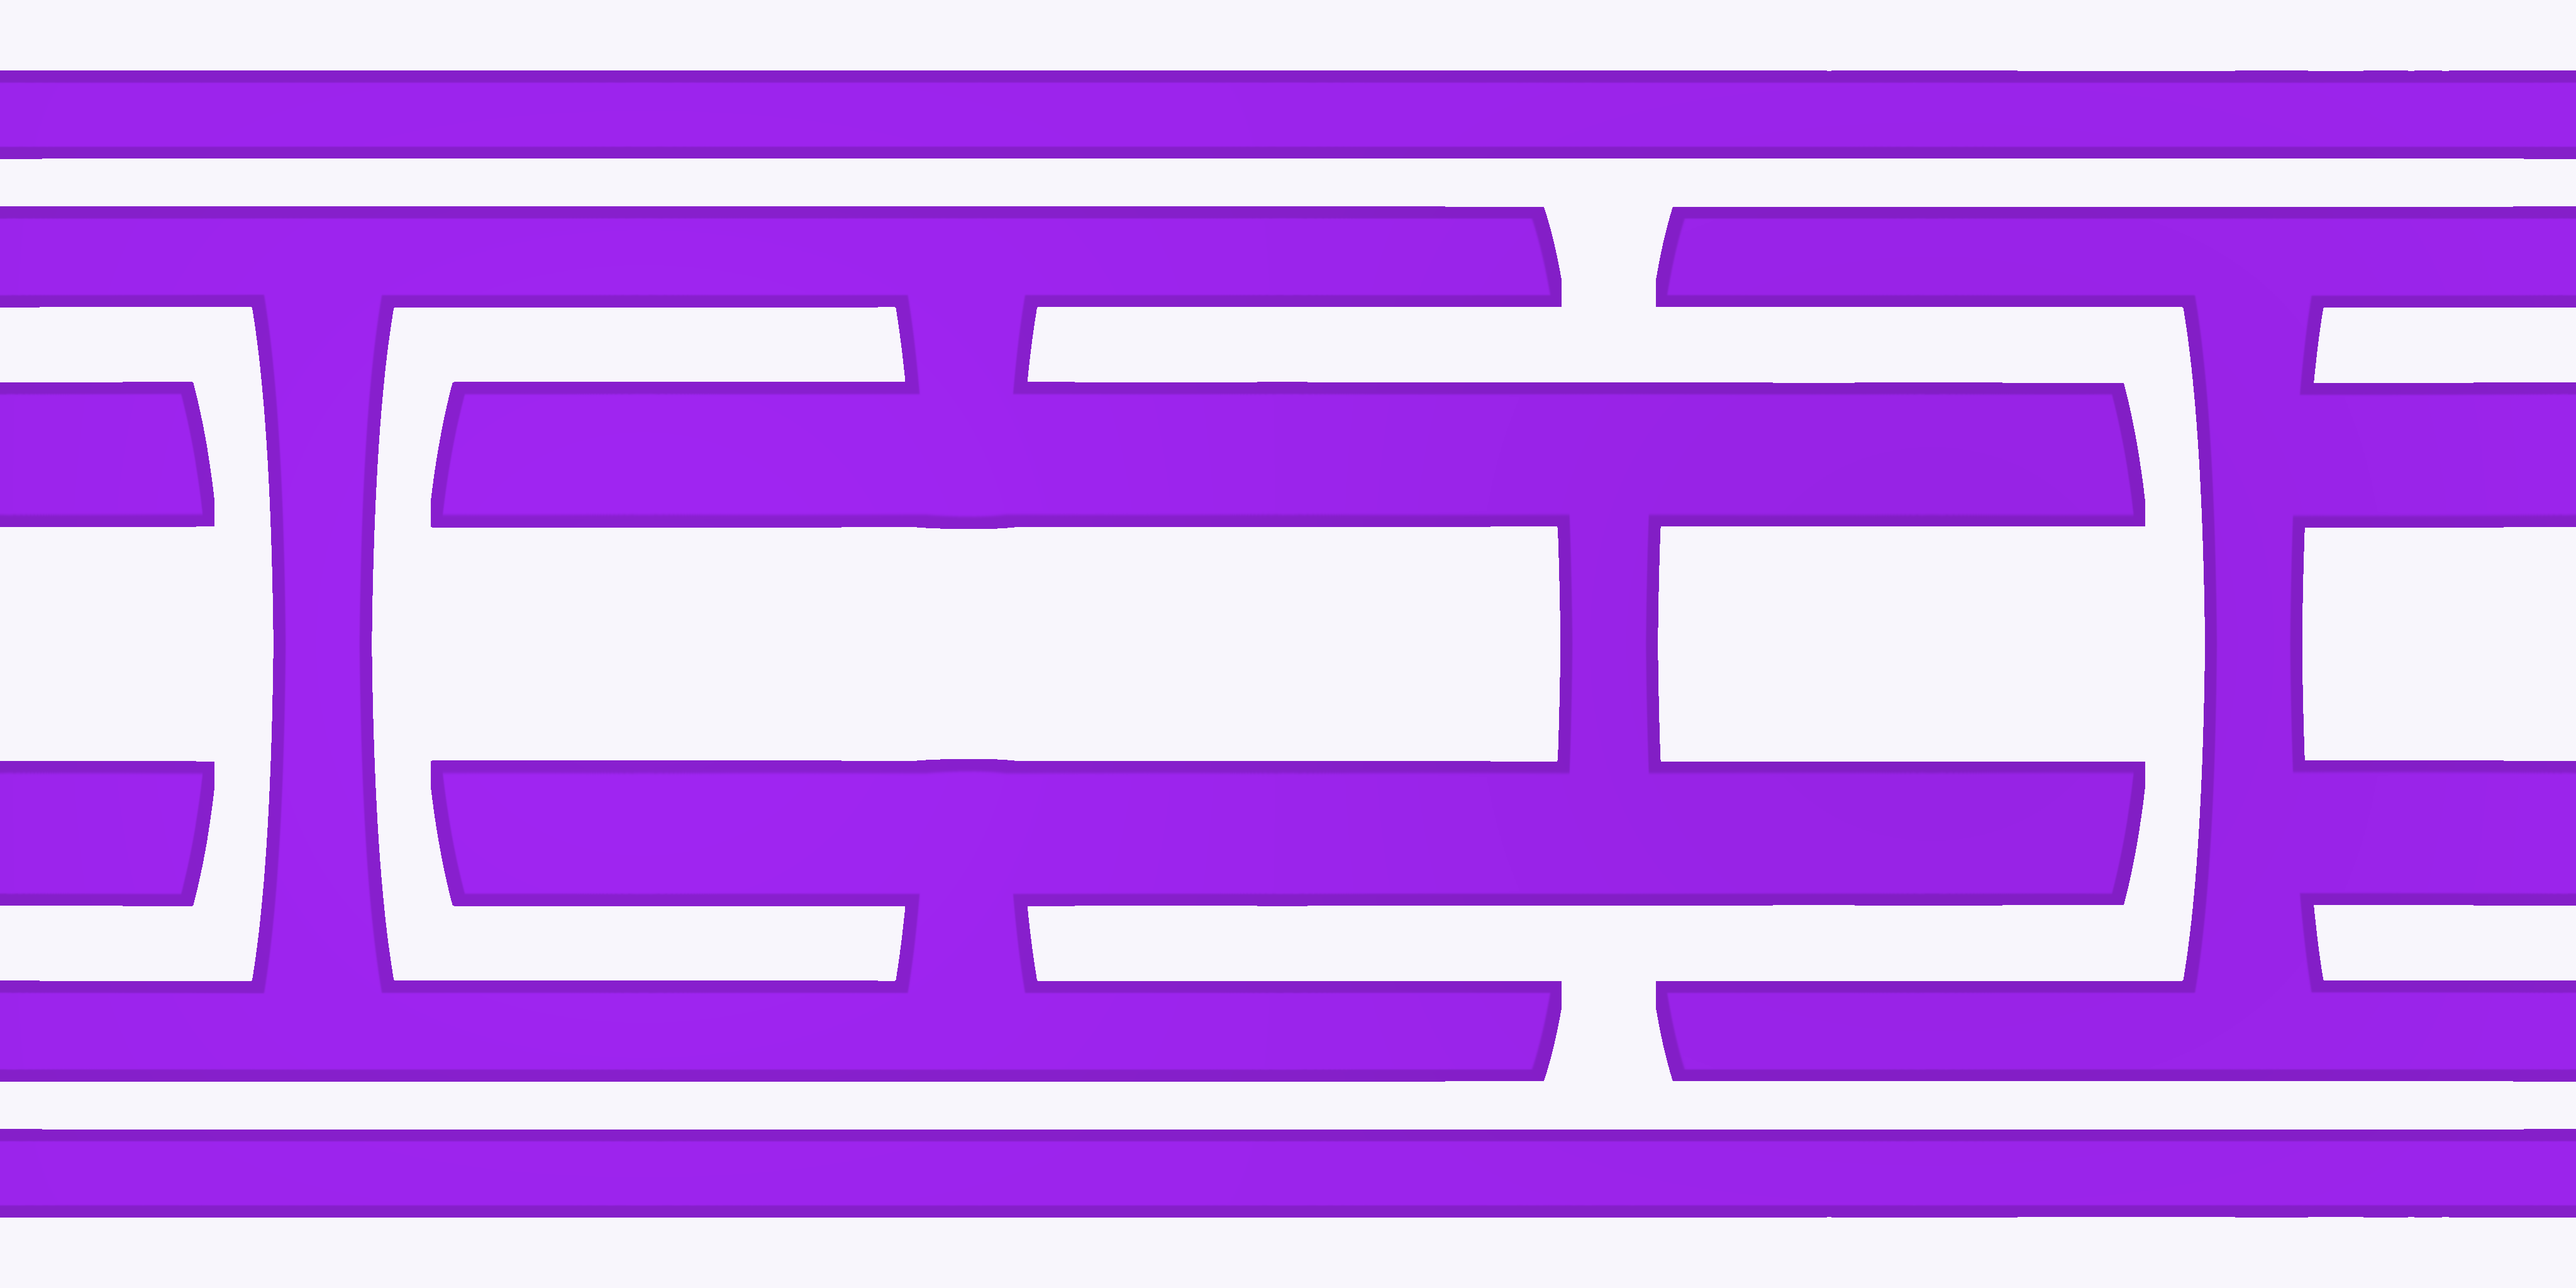
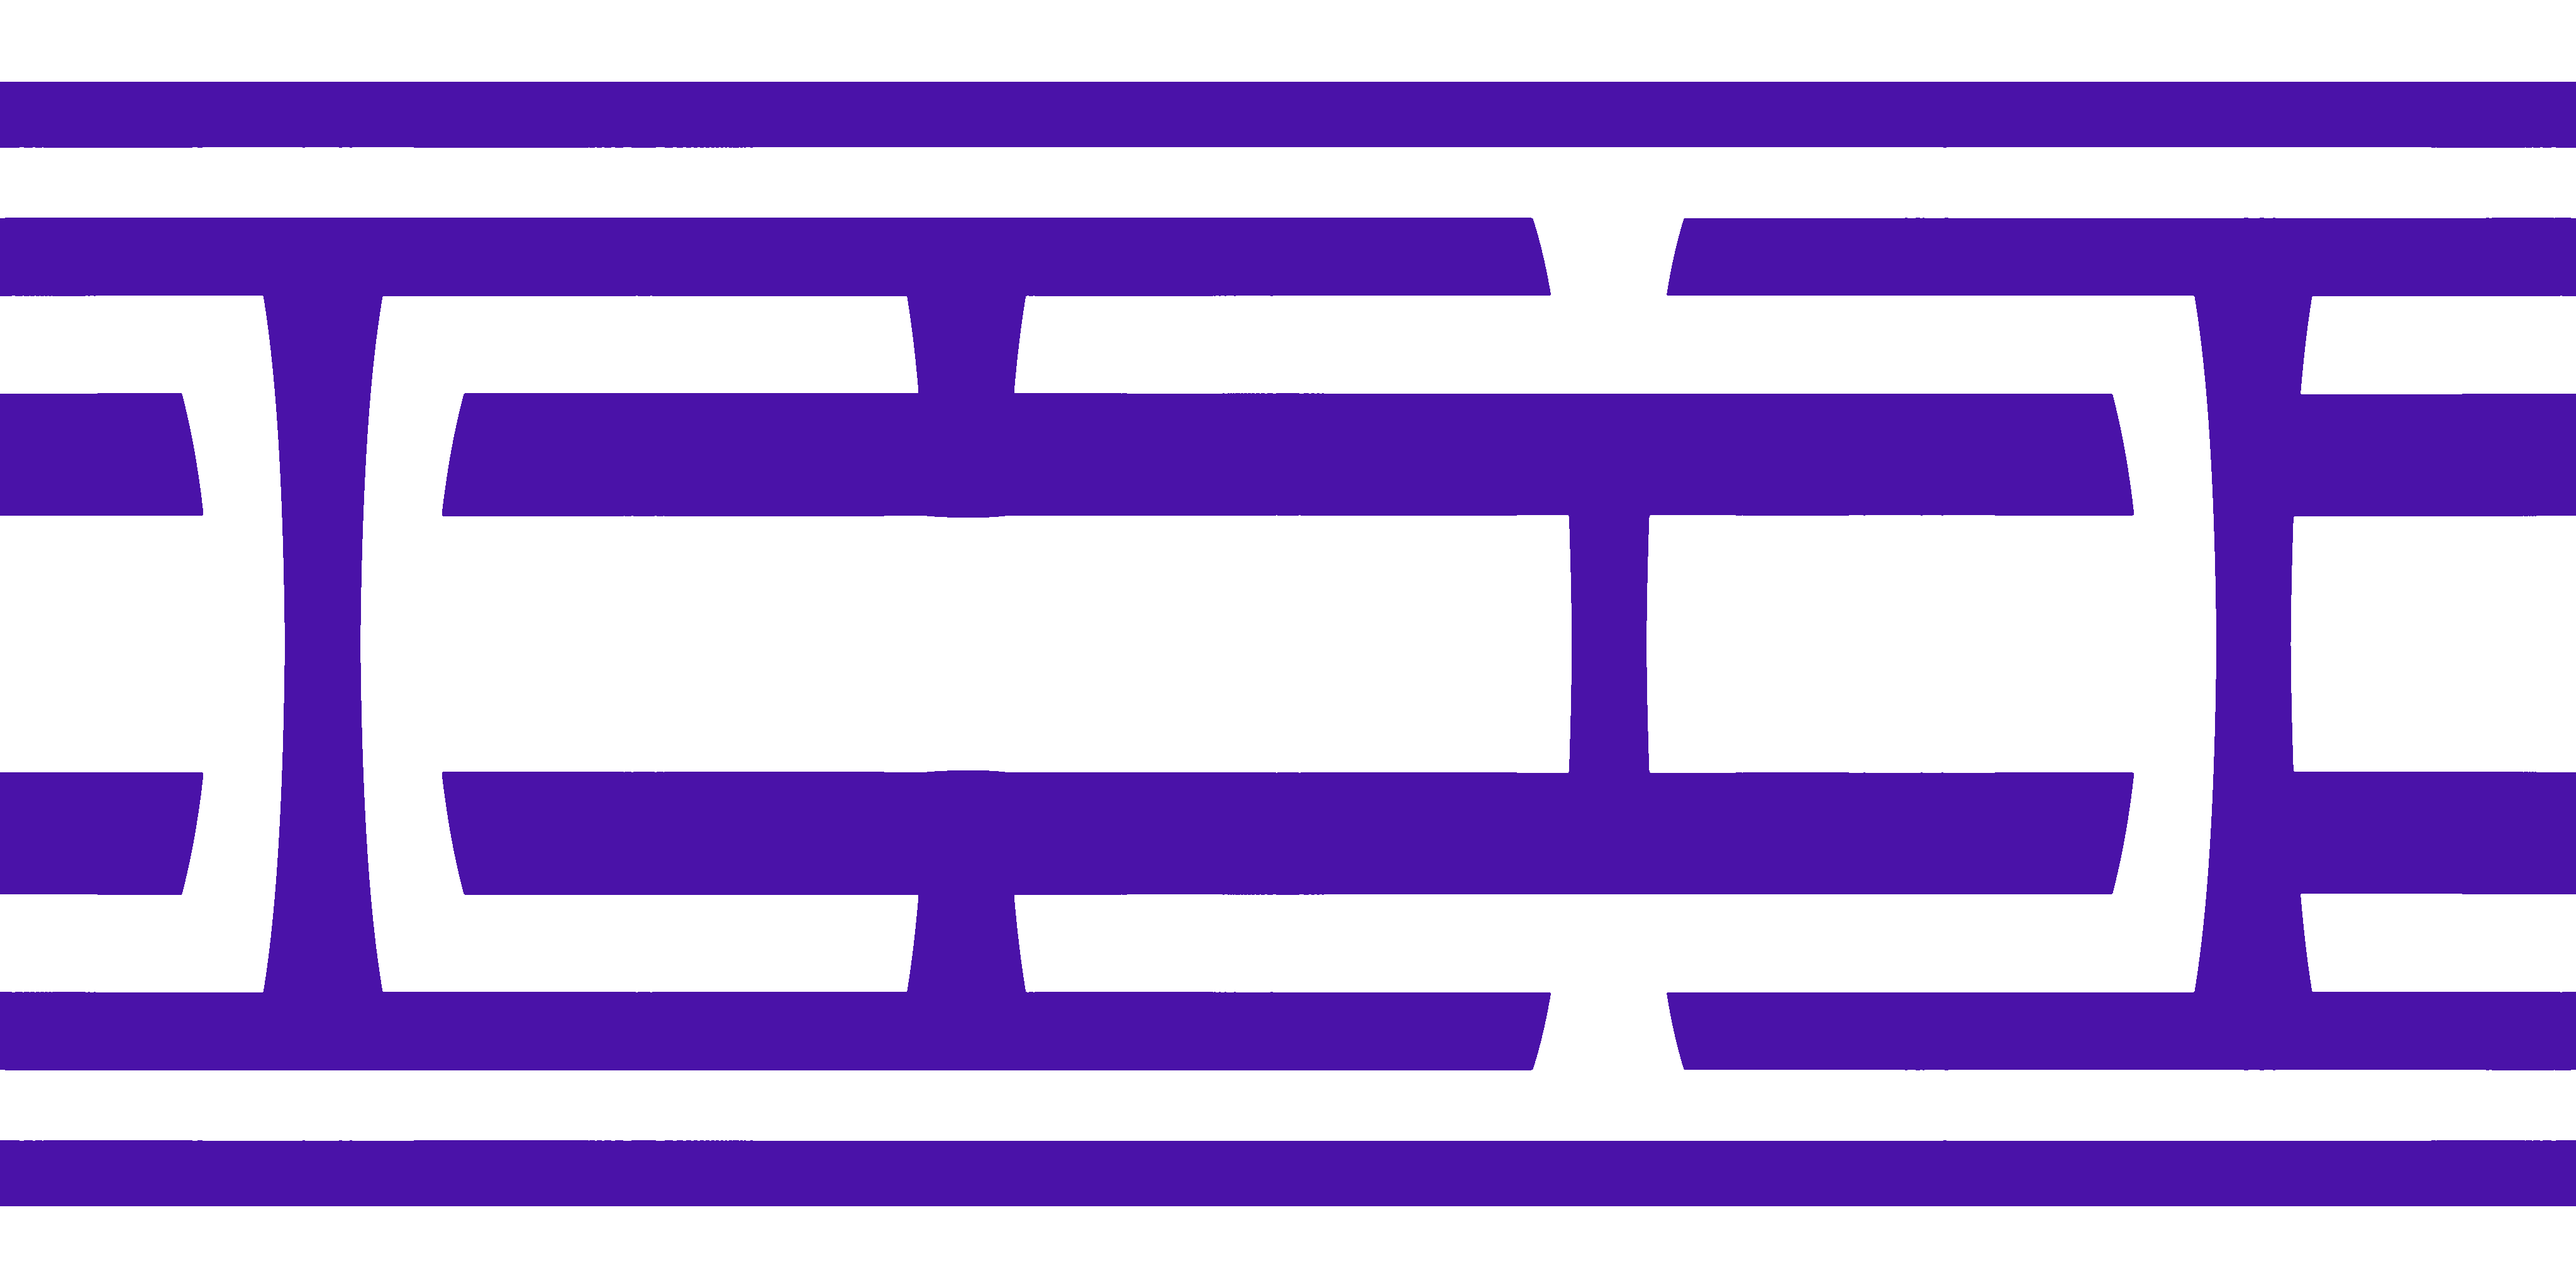
Make the nav orb hub crisp and the white stark
Replace the soft glow with hard concentric rings and sharp tick marks, and paint the mini-orb as true white with deep purple bands. The phone bar is unchanged.

diff --git a/js/landing/mini-orb.js b/js/landing/mini-orb.js
@@ -51,8 +51,11 @@ function texOf(THREE, loader, name, srgb) {
   return new Promise(function (res, rej) {
     loader.load(TEX + name, function (t) {
       t.colorSpace = srgb ? THREE.SRGBColorSpace : THREE.NoColorSpace;
+      t.generateMipmaps = false;
+      t.minFilter = THREE.LinearFilter;
+      t.magFilter = THREE.LinearFilter;
       t.anisotropy = 8;
-      t.wrapS = THREE.RepeatWrapping;
+      t.wrapS = THREE.ClampToEdgeWrapping;
       t.wrapT = THREE.ClampToEdgeWrapping;
       res(t);
     }, undefined, function () { rej(new Error(name)); });
@@ -62,13 +65,13 @@ function texOf(THREE, loader, name, srgb) {
 async function boot() {
   const { THREE, RoomEnvironment } = await loadThree();
   glCanvas = document.createElement("canvas");
-  renderer = new THREE.WebGLRenderer({ canvas: glCanvas, antialias: true, alpha: true, powerPreference: "low-power" });
-  renderer.setPixelRatio(1);
+  renderer = new THREE.WebGLRenderer({ canvas: glCanvas, antialias: true, alpha: true, powerPreference: "high-performance" });
+  renderer.setPixelRatio(Math.max(2, window.devicePixelRatio || 1));
   renderer.setSize(SIZE, SIZE, false);
   renderer.setClearColor(0x000000, 0);
   renderer.outputColorSpace = THREE.SRGBColorSpace;
-  renderer.toneMapping = THREE.ACESFilmicToneMapping;
-  renderer.toneMappingExposure = 1.05;
+  renderer.toneMapping = THREE.NoToneMapping;
+  renderer.toneMappingExposure = 1;
   renderer.domElement.addEventListener("webglcontextlost", function (e) {
     e.preventDefault();
     failed = true;
@@ -81,27 +84,26 @@ async function boot() {
   scene.environment = pmrem.fromScene(envScene, 0.04).texture;
   pmrem.dispose();
 
-  const key = new THREE.DirectionalLight(0xC084FC, 1.9); key.position.set(-3, 3.2, 4); scene.add(key);
-  const rim = new THREE.DirectionalLight(0xffffff, 0.28); rim.position.set(4, 1.5, -3); scene.add(rim);
-  scene.add(new THREE.HemisphereLight(0xF4E9FF, 0x2A0848, 0.42));
+  const key = new THREE.DirectionalLight(0xffffff, 0.22); key.position.set(-1.6, 2.2, 4); scene.add(key);
 
   const loader = new THREE.TextureLoader();
-  const [tColor, tHeight, tGlow] = await Promise.all([
+  const [tColor, tHeight] = await Promise.all([
     texOf(THREE, loader, "mini-orb-color.png", true),
-    texOf(THREE, loader, "solid-height.png", false),
-    texOf(THREE, loader, "solid-glow.png", false)
+    texOf(THREE, loader, "solid-height.png", false)
   ]);
   const geo = new THREE.SphereGeometry(1, 64, 48);
   geo.rotateX(Math.PI / 2);
-  const mat = new THREE.MeshPhysicalMaterial({
+  const mat = new THREE.MeshStandardMaterial({
     map: tColor,
-    metalness: 0.32,
-    roughness: 0.4,
-    clearcoat: 0.22,
-    clearcoatRoughness: 0.34,
-    bumpMap: tHeight, bumpScale: 1.05,
-    emissive: new THREE.Color(0x9A29E9), emissiveMap: tGlow, emissiveIntensity: 0.62,
-    envMapIntensity: 0.32
+    color: 0xffffff,
+    emissive: new THREE.Color(0xffffff),
+    emissiveMap: tColor,
+    emissiveIntensity: 1,
+    metalness: 0,
+    roughness: 0.55,
+    envMapIntensity: 0,
+    bumpMap: tHeight,
+    bumpScale: 0.12
   });
   const sphere = new THREE.Mesh(geo, mat);
   pivot = new THREE.Group();

diff --git a/css/style.css b/css/style.css
@@ -206,84 +206,37 @@ body.dark .nav-links a.active { color: var(--text); background: rgba(133,32,254,
   top: 50%;
   transform: translate(-50%, -50%);
   z-index: 2;
-  width: 86px;
-  height: 86px;
+  width: 84px;
+  height: 84px;
 }
 .nav-orb-center .orb-logo-img {
-  width: 68px;
-  height: 68px;
+  width: 66px;
+  height: 66px;
   position: absolute;
   left: 50%;
   top: 50%;
   transform: translate(-50%, -50%);
   z-index: 2;
   border-radius: 50%;
+  filter: none;
 }
 .orb-hub {
   position: absolute;
   inset: 0;
-  border-radius: 50%;
-  pointer-events: none;
   z-index: 1;
-  background:
-    radial-gradient(circle at 50% 38%, rgba(255,255,255,0.28), transparent 46%),
-    radial-gradient(circle,
-      #16101f 0 62%,
-      #2c1844 74%,
-      rgba(154, 41, 233, 0.72) 80%,
-      #120a1a 84%,
-      #d9d3e2 89%,
-      #9A29E9 93%,
-      #f4f0f8 96.5%,
-      #9A29E9 100%);
-  box-shadow:
-    inset 0 0 12px rgba(154, 41, 233, 0.5),
-    inset 0 3px 6px rgba(0, 0, 0, 0.35),
-    0 0 0 1px rgba(154, 41, 233, 0.28),
-    0 8px 18px rgba(60, 1, 131, 0.16);
+  pointer-events: none;
+  line-height: 0;
 }
-.orb-hub-ticks {
-  position: absolute;
-  inset: 0;
-  border-radius: 50%;
-  background: repeating-conic-gradient(
-    from 0deg,
-    rgba(255, 255, 255, 0.92) 0 3.5deg,
-    transparent 3.5deg 15deg
-  );
-  -webkit-mask: radial-gradient(circle, transparent 82%, #000 84%, #000 90%, transparent 92%);
-  mask: radial-gradient(circle, transparent 82%, #000 84%, #000 90%, transparent 92%);
-  animation: orb-hub-spin 56s linear infinite;
-}
-@keyframes orb-hub-spin { to { transform: rotate(-360deg); } }
-body.dark .orb-hub {
-  background:
-    radial-gradient(circle at 50% 36%, rgba(233, 213, 255, 0.22), transparent 48%),
-    radial-gradient(circle,
-      #07040e 0 62%,
-      #241038 74%,
-      rgba(176, 92, 255, 0.85) 81%,
-      #050208 85%,
-      #8a74a4 90%,
-      #9A29E9 94%,
-      #f3e8ff 97%,
-      #7c3aed 100%);
-  box-shadow:
-    inset 0 0 16px rgba(154, 41, 233, 0.72),
-    inset 0 2px 5px rgba(0, 0, 0, 0.55),
-    0 0 0 1px rgba(176, 92, 255, 0.45),
-    0 0 18px rgba(154, 41, 233, 0.28);
-}
-body.dark .orb-hub-ticks {
-  background: repeating-conic-gradient(
-    from 0deg,
-    rgba(233, 213, 255, 0.9) 0 4deg,
-    transparent 4deg 15deg
-  );
-}
-@media (prefers-reduced-motion: reduce) {
-  .orb-hub-ticks { animation: none; }
-}
+.orb-hub-svg { display: block; width: 84px; height: 84px; }
+.orb-hub-outer { fill: #9A29E9; }
+.orb-hub-well { fill: #F7F7F8; }
+.orb-hub-highlight { stroke: #FFFFFF; stroke-width: 1; }
+.orb-hub-inner { stroke: #C6C6CC; stroke-width: 1; }
+.orb-hub-ticks line { stroke: #B0B0B6; stroke-width: 1; shape-rendering: crispEdges; }
+body.dark .orb-hub-well { fill: #0C0C0E; }
+body.dark .orb-hub-highlight { stroke: rgba(255, 255, 255, 0.22); }
+body.dark .orb-hub-inner { stroke: rgba(255, 255, 255, 0.32); }
+body.dark .orb-hub-ticks line { stroke: rgba(255, 255, 255, 0.28); }
 .mini-orb-canvas { display: none; }
 .mini-orb.is-live .mini-orb-canvas { display: block; }
 .mini-orb.is-live .mini-orb-fallback { display: none; }

diff --git a/js/nav.js b/js/nav.js
@@ -297,6 +297,23 @@ function friendlyError(code) {
 }
 
 // ── Build nav ─────────────────────────────────────────────────────
+function orbHubSVG() {
+  const cx = 42, cy = 42, n = 48;
+  let ticks = '';
+  for (let i = 0; i < n; i++) {
+    const a = (i / n) * Math.PI * 2 - Math.PI / 2;
+    const c = Math.cos(a), s = Math.sin(a);
+    ticks += `<line x1="${(cx + c * 37.2).toFixed(2)}" y1="${(cy + s * 37.2).toFixed(2)}" x2="${(cx + c * 39).toFixed(2)}" y2="${(cy + s * 39).toFixed(2)}"/>`;
+  }
+  return `<svg class="orb-hub-svg" viewBox="0 0 84 84" width="84" height="84" aria-hidden="true">
+    <circle class="orb-hub-outer" cx="42" cy="42" r="42"/>
+    <circle class="orb-hub-well" cx="42" cy="42" r="40"/>
+    <circle class="orb-hub-highlight" cx="42" cy="42" r="39.5" fill="none"/>
+    <g class="orb-hub-ticks">${ticks}</g>
+    <circle class="orb-hub-inner" cx="42" cy="42" r="36.5" fill="none"/>
+  </svg>`;
+}
+
 function buildNav(activePage = '') {
   applyPreferredTheme();
 
@@ -307,8 +324,8 @@ function buildNav(activePage = '') {
         <span class="nav-logo-text">Orbanalytics<span class="nav-logo-accent">.limited</span></span>
       </a>
       <a href="index.html" aria-label="Orb Analytics Home" class="mini-orb nav-orb-center">
-        <span class="orb-hub" aria-hidden="true"><span class="orb-hub-ticks"></span></span>
-        <canvas class="orb-logo-img mini-orb-canvas" width="68" height="68" aria-hidden="true"></canvas>
+        <span class="orb-hub" aria-hidden="true">${orbHubSVG()}</span>
+        <canvas class="orb-logo-img mini-orb-canvas" width="66" height="66" aria-hidden="true"></canvas>
         <img src="assets/logo.png" alt="" class="orb-logo-img mini-orb-fallback" />
       </a>
       <div class="nav-end">

diff --git a/predictions.html b/predictions.html
@@ -12,7 +12,7 @@
   <meta name="viewport" content="width=device-width, initial-scale=1.0, viewport-fit=cover" />
   <title>Predictions · Orb Analytics</title>
   <link rel="icon" type="image/png" href="assets/logo.png" />
-  <link rel="stylesheet" href="css/style.css?v=20261102b" />
+  <link rel="stylesheet" href="css/style.css?v=20261102c" />
   <script src="https://cdnjs.cloudflare.com/ajax/libs/Chart.js/4.4.0/chart.umd.min.js"></script>
   <style>
     /* ── Two-column layout ───────────────────────────────────── */
@@ -736,7 +736,7 @@
     </div><!-- end sidebar-content -->
   </div><!-- end app-layout -->
 
-  <script src="js/nav.js?v=20261102b"></script>
+  <script src="js/nav.js?v=20261102c"></script>
   <script src="js/odds-source.js?v=20261014"></script>
   <script src="js/nfl-picks.js?v=20261014"></script>
   <script src="js/nba-picks.js?v=20261029"></script>

diff --git a/index.html b/index.html
@@ -12,7 +12,7 @@
   <meta name="viewport" content="width=device-width, initial-scale=1.0, viewport-fit=cover" />
   <title>Predictions · Orb Analytics</title>
   <link rel="icon" type="image/png" href="assets/logo.png" />
-  <link rel="stylesheet" href="css/style.css?v=20261102b" />
+  <link rel="stylesheet" href="css/style.css?v=20261102c" />
   <link rel="stylesheet" href="css/landing.css?v=20261102a" />
   <script src="https://cdnjs.cloudflare.com/ajax/libs/Chart.js/4.4.0/chart.umd.min.js"></script>
   <style>
@@ -808,7 +808,7 @@
     </div><!-- end sidebar-content -->
   </div><!-- end app-layout -->
 
-  <script src="js/nav.js?v=20261102b"></script>
+  <script src="js/nav.js?v=20261102c"></script>
   <script src="js/odds-source.js?v=20261014"></script>
   <script src="js/nfl-picks.js?v=20261014"></script>
   <script src="js/nba-picks.js?v=20261029"></script>

diff --git a/about.html b/about.html
@@ -12,7 +12,7 @@
   <meta name="viewport" content="width=device-width, initial-scale=1.0, viewport-fit=cover" />
   <title>About Us · Orb Analytics</title>
   <link rel="icon" type="image/png" href="assets/logo.png" />
-  <link rel="stylesheet" href="css/style.css?v=20261102b" />
+  <link rel="stylesheet" href="css/style.css?v=20261102c" />
   <style>
     /* ── Page layout ─────────────────────────────────────────────── */
     .about-page {
@@ -597,7 +597,7 @@
     </div><!-- end sidebar-content -->
   </div><!-- end app-layout -->
 
-  <script src="js/nav.js?v=20261102b"></script>
+  <script src="js/nav.js?v=20261102c"></script>
   <script>buildNav('about.html');</script>
 
   <!-- Firebase auth so the sidebar reflects the signed-in state here too -->

diff --git a/game.html b/game.html
@@ -12,7 +12,7 @@
   <meta name="viewport" content="width=device-width, initial-scale=1.0, viewport-fit=cover" />
   <title>Game · Orb Analytics</title>
   <link rel="icon" type="image/png" href="assets/logo.png" />
-  <link rel="stylesheet" href="css/style.css?v=20261102b" />
+  <link rel="stylesheet" href="css/style.css?v=20261102c" />
   <script src="https://cdnjs.cloudflare.com/ajax/libs/Chart.js/4.4.0/chart.umd.min.js"></script>
   <style>
     .back-link {
@@ -253,7 +253,7 @@
     </div><!-- end sidebar-content -->
   </div><!-- end app-layout -->
 
-  <script src="js/nav.js?v=20261102b"></script>
+  <script src="js/nav.js?v=20261102c"></script>
   <script src="js/odds-source.js?v=20261014"></script>
   <script src="js/nfl-picks.js?v=20261014"></script>
   <script>

diff --git a/tracker.html b/tracker.html
@@ -12,7 +12,7 @@
   <meta name="viewport" content="width=device-width, initial-scale=1.0, viewport-fit=cover" />
   <title>Bet Tracker · Orb Analytics</title>
   <link rel="icon" type="image/png" href="assets/logo.png" />
-  <link rel="stylesheet" href="css/style.css?v=20261102b" />
+  <link rel="stylesheet" href="css/style.css?v=20261102c" />
   <script src="https://cdnjs.cloudflare.com/ajax/libs/Chart.js/4.4.0/chart.umd.min.js"></script>
   <style>
     /* ── Two-column layout (mirrors predictions.html) ──────────── */
@@ -423,7 +423,7 @@
     </div>
   </div>
 
-  <script src="js/nav.js?v=20261102b"></script>
+  <script src="js/nav.js?v=20261102c"></script>
   <script>
     buildNav('tracker.html');
 

diff --git a/match.html b/match.html
@@ -12,7 +12,7 @@
   <meta name="viewport" content="width=device-width, initial-scale=1.0, viewport-fit=cover" />
   <title>Match · Orb Analytics</title>
   <link rel="icon" type="image/png" href="assets/logo.png" />
-  <link rel="stylesheet" href="css/style.css?v=20261102b" />
+  <link rel="stylesheet" href="css/style.css?v=20261102c" />
   <style>
     .back-link {
       display: inline-flex; align-items: center; gap: 0.35rem;
@@ -147,7 +147,7 @@
     </div><!-- end sidebar-content -->
   </div><!-- end app-layout -->
 
-  <script src="js/nav.js?v=20261102b"></script>
+  <script src="js/nav.js?v=20261102c"></script>
   <script>
     buildNav('scoreboard.html');
 

diff --git a/snapshot.html b/snapshot.html
@@ -12,7 +12,7 @@
   <meta name="viewport" content="width=device-width, initial-scale=1.0, viewport-fit=cover" />
   <title>Snapshot Analysis · Orb Analytics</title>
   <link rel="icon" type="image/png" href="assets/logo.png" />
-  <link rel="stylesheet" href="css/style.css?v=20261102b" />
+  <link rel="stylesheet" href="css/style.css?v=20261102c" />
   <script src="https://cdnjs.cloudflare.com/ajax/libs/Chart.js/4.4.0/chart.umd.min.js"></script>
   <style>
     .snap-header {
@@ -375,7 +375,7 @@
     </div>
   </div>
 
-  <script src="js/nav.js?v=20261102b"></script>
+  <script src="js/nav.js?v=20261102c"></script>
   <script>
     buildNav('snapshot.html');
 

diff --git a/scoreboard.html b/scoreboard.html
@@ -12,7 +12,7 @@
   <meta name="viewport" content="width=device-width, initial-scale=1.0, viewport-fit=cover" />
   <title>Scoreboard · Orb Analytics</title>
   <link rel="icon" type="image/png" href="assets/logo.png" />
-  <link rel="stylesheet" href="css/style.css?v=20261102b" />
+  <link rel="stylesheet" href="css/style.css?v=20261102c" />
   <style>
     .scoreboard-header {
       padding: 1.5rem 1.75rem;
@@ -357,7 +357,7 @@
     </div><!-- end sidebar-content -->
   </div><!-- end app-layout -->
 
-  <script src="js/nav.js?v=20261102b"></script>
+  <script src="js/nav.js?v=20261102c"></script>
   <script>
     buildNav('scoreboard.html');
 
